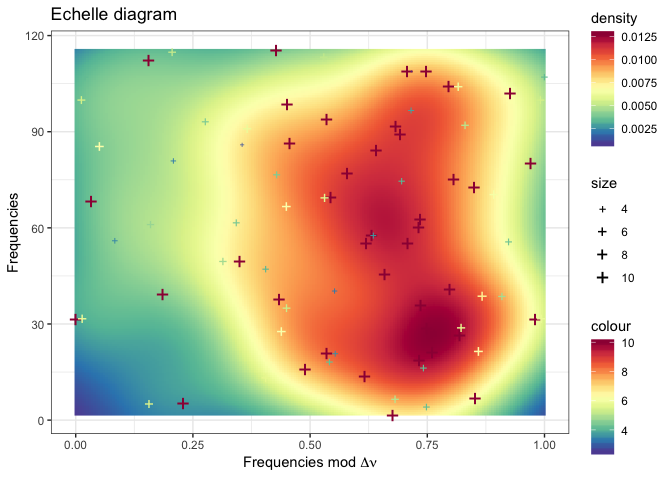
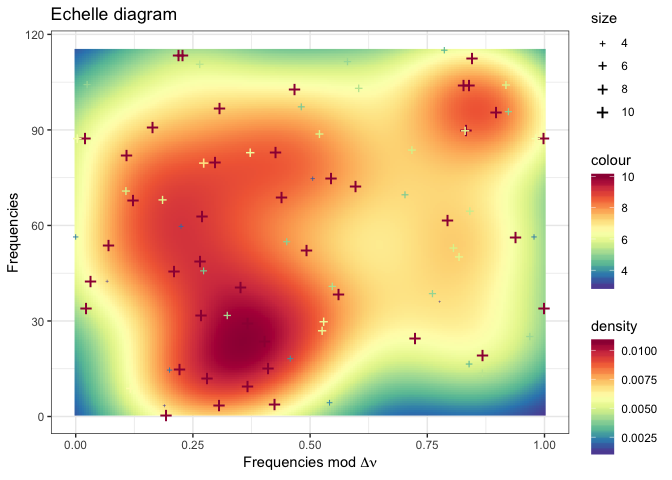
Experiment three with all random amplitudes

diff --git a/docs/ShynteticExpI.md b/docs/ShynteticExpI.md
@@ -9,7 +9,7 @@ Experiment I
 ``` r
 # Generate first pattern
 dt.spectrum <- data.frame(
-  "frequency" = seq(from=0, to=10, by=2) ,
+  "frequency" = seq(from=0, to=10, by=1) ,
   "amplitude" = 10
 )
 # Get max amplitude
@@ -26,16 +26,16 @@ Experiment execution
 
     ## ::: Debug information :::
     ## 
-    ## Number of frequences to be processed: 6
-    ## Number of frequences after drop the g regimen: 5
-    ## Frequencies: 23.1481, 46.2963, 69.4444, 92.5926, 115.741, 
-    ## Range: 5, 
-    ##  Iteration over range: 5
-    ##    Frequencies selected: 23.1481, 46.2963, 69.4444, 92.5926, 115.741, 
-    ##    Amplitudes selected: 10, 10, 10, 10, 10, 
-    ##     Dnu: 23.1463
-    ##     Dnu Peak: 23.1463
-    ##     Dnu Guess: 7.71605
+    ## Number of frequences to be processed: 11
+    ## Number of frequences after drop the g regimen: 10
+    ## Frequencies: 11.5741, 23.1481, 34.7222, 46.2963, 57.8704, 69.4444, 81.0185, 92.5926, 104.167, 115.741, 
+    ## Range: 10, 
+    ##  Iteration over range: 10
+    ##    Frequencies selected: 11.5741, 23.1481, 34.7222, 46.2963, 57.8704, 69.4444, 81.0185, 92.5926, 104.167, 115.741, 
+    ##    Amplitudes selected: 10, 10, 10, 10, 10, 10, 10, 10, 10, 10, 
+    ##     Dnu: 11.5732
+    ##     Dnu Peak: 11.5732
+    ##     Dnu Guess: 3.85802
     ##     Cross correlation calculated:
 
 ![](ShynteticExpI_files/figure-markdown_github/ftPower-1.png)
@@ -48,12 +48,12 @@ Experiment II
 ``` r
 # Generate first pattern
 dt.spectrum <- data.frame(
-  "frequency" = seq(from=0, to=10, by=0.25) ,
+  "frequency" = seq(from=0, to=10, by=1) ,
   "amplitude" = 10
 )
 # Generate second pattern as the biased first
 dt.spectrum.bias <- data.frame(dt.spectrum)
-dt.spectrum.bias$frequency <- dt.spectrum.bias$frequency + 0.15
+dt.spectrum.bias$frequency <- dt.spectrum.bias$frequency + 0.25
 dt.spectrum.bias$amplitude <- 5
   
 #All together
@@ -72,23 +72,17 @@ Experiment execution
 
     ## ::: Debug information :::
     ## 
-    ## Number of frequences to be processed: 82
-    ## Number of frequences after drop the g regimen: 81
-    ## Frequencies: 2.89352, 5.78704, 8.68056, 11.5741, 14.4676, 17.3611, 20.2546, 23.1481, 26.0417, 28.9352, 31.8287, 34.7222, 37.6157, 40.5093, 43.4028, 46.2963, 49.1898, 52.0833, 54.9769, 57.8704, 
-    ## Range: 30, 60, 81, 
-    ##  Iteration over range: 30
-    ##    Frequencies selected: 2.89352, 5.78704, 8.68056, 11.5741, 14.4676, 17.3611, 20.2546, 23.1481, 26.0417, 28.9352, 
+    ## Number of frequences to be processed: 22
+    ## Number of frequences after drop the g regimen: 21
+    ## Frequencies: 11.5741, 23.1481, 34.7222, 46.2963, 57.8704, 69.4444, 81.0185, 92.5926, 104.167, 115.741, 2.89352, 14.4676, 26.0417, 37.6157, 49.1898, 60.7639, 72.338, 83.912, 95.4861, 107.06, 
+    ## Range: 21, 
+    ##  Iteration over range: 21
+    ##    Frequencies selected: 11.5741, 23.1481, 34.7222, 46.2963, 57.8704, 69.4444, 81.0185, 92.5926, 104.167, 115.741, 
     ##    Amplitudes selected: 10, 10, 10, 10, 10, 10, 10, 10, 10, 10, 
     ##     Dnu: 2.8909
     ##     Dnu Peak: 2.8909
     ##     Dnu Guess: 0.964506
     ##     Cross correlation calculated:
-    ##  Iteration over range: 60
-    ##    Frequencies selected: 2.89352, 5.78704, 8.68056, 11.5741, 14.4676, 17.3611, 20.2546, 23.1481, 26.0417, 28.9352, 
-    ##    Amplitudes selected: 10, 10, 10, 10, 10, 10, 10, 10, 10, 10, 
-    ##  Iteration over range: 81
-    ##    Frequencies selected: 2.89352, 5.78704, 8.68056, 11.5741, 14.4676, 17.3611, 20.2546, 23.1481, 26.0417, 28.9352, 
-    ##    Amplitudes selected: 10, 10, 10, 10, 10, 10, 10, 10, 10, 10,
 
 ![](ShynteticExpI_files/figure-markdown_github/dosftPower-1.png)
 
@@ -101,8 +95,9 @@ Experiment III
 # Generate first pattern
 dt.spectrum <- data.frame(
   "frequency" = seq(from=0, to=10, by=0.25) ,
-  "amplitude" = 10
+  "amplitude" = 10 
 )
+dt.spectrum$amplitude <- dt.spectrum$amplitude + rnorm(nrow(dt.spectrum),0,1.0)
 # Generate second pattern as the biased first
 dt.spectrum.bias <- data.frame(dt.spectrum)
 dt.spectrum.bias$frequency <- dt.spectrum.bias$frequency + 0.15
@@ -126,21 +121,21 @@ Experiment execution
     ## 
     ## Number of frequences to be processed: 82
     ## Number of frequences after drop the g regimen: 81
-    ## Frequencies: 2.89352, 5.78704, 8.68056, 11.5741, 14.4676, 17.3611, 20.2546, 23.1481, 26.0417, 28.9352, 31.8287, 34.7222, 37.6157, 40.5093, 43.4028, 46.2963, 49.1898, 52.0833, 54.9769, 57.8704, 
+    ## Frequencies: 60.7639, 14.4676, 46.2963, 109.954, 86.8056, 43.4028, 104.167, 66.5509, 72.338, 8.68056, 89.6991, 63.6574, 107.06, 98.3796, 69.4444, 26.0417, 17.3611, 34.7222, 49.1898, 112.847, 
     ## Range: 30, 60, 81, 
     ##  Iteration over range: 30
-    ##    Frequencies selected: 2.89352, 5.78704, 8.68056, 11.5741, 14.4676, 17.3611, 20.2546, 23.1481, 26.0417, 28.9352, 
-    ##    Amplitudes selected: 10, 10, 10, 10, 10, 10, 10, 10, 10, 10, 
+    ##    Frequencies selected: 60.7639, 14.4676, 46.2963, 109.954, 86.8056, 43.4028, 104.167, 66.5509, 72.338, 8.68056, 
+    ##    Amplitudes selected: 11.6237, 11.5179, 11.3128, 11.2562, 11.2159, 11.0321, 10.6311, 10.6266, 10.599, 10.5851, 
     ##     Dnu: 2.8909
     ##     Dnu Peak: 2.8909
-    ##     Dnu Guess: 0.964506
+    ##     Dnu Guess: 1.92901
     ##     Cross correlation calculated:
     ##  Iteration over range: 60
-    ##    Frequencies selected: 2.89352, 5.78704, 8.68056, 11.5741, 14.4676, 17.3611, 20.2546, 23.1481, 26.0417, 28.9352, 
-    ##    Amplitudes selected: 10, 10, 10, 10, 10, 10, 10, 10, 10, 10, 
+    ##    Frequencies selected: 60.7639, 14.4676, 46.2963, 109.954, 86.8056, 43.4028, 104.167, 66.5509, 72.338, 8.68056, 
+    ##    Amplitudes selected: 11.6237, 11.5179, 11.3128, 11.2562, 11.2159, 11.0321, 10.6311, 10.6266, 10.599, 10.5851, 
     ##  Iteration over range: 81
-    ##    Frequencies selected: 2.89352, 5.78704, 8.68056, 11.5741, 14.4676, 17.3611, 20.2546, 23.1481, 26.0417, 28.9352, 
-    ##    Amplitudes selected: 10, 10, 10, 10, 10, 10, 10, 10, 10, 10,
+    ##    Frequencies selected: 60.7639, 14.4676, 46.2963, 109.954, 86.8056, 43.4028, 104.167, 66.5509, 72.338, 8.68056, 
+    ##    Amplitudes selected: 11.6237, 11.5179, 11.3128, 11.2562, 11.2159, 11.0321, 10.6311, 10.6266, 10.599, 10.5851,
 
 ![](ShynteticExpI_files/figure-markdown_github/tresftPower-1.png)
 
@@ -153,7 +148,7 @@ Experiment IV
 # Generate first pattern
 dt.spectrum <- data.frame(
   "frequency" = seq(from=0, to=10, by=0.25) + rnorm(nrow(dt.spectrum.bias),0,0.1) ,
-  "amplitude" = 10
+  "amplitude" = 10 
 )
 # Generate second pattern as the biased first
 dt.spectrum.bias <- data.frame(dt.spectrum)
@@ -177,21 +172,21 @@ Experiment execution
     ## ::: Debug information :::
     ## 
     ## Number of frequences to be processed: 82
-    ## Number of frequences after drop the g regimen: 80
-    ## Frequencies: 1.70135, 5.46207, 7.01212, 13.7322, 15.8514, 18.8912, 20.836, 21.3963, 26.4131, 28.6725, 31.6831, 35.9488, 37.632, 39.4512, 40.9728, 45.4978, 49.6017, 55.1424, 55.3641, 57.6071, 
-    ## Range: 30, 60, 80, 
+    ## Number of frequences after drop the g regimen: 81
+    ## Frequencies: 0.576375, 3.72331, 4.06342, 9.54308, 12.1136, 14.7651, 15.312, 19.4521, 23.7544, 24.6813, 29.2946, 31.8298, 33.9409, 38.3168, 40.5375, 42.4359, 45.7718, 48.7506, 52.2282, 53.8325, 
+    ## Range: 30, 60, 81, 
     ##  Iteration over range: 30
-    ##    Frequencies selected: 1.70135, 5.46207, 7.01212, 13.7322, 15.8514, 18.8912, 20.836, 21.3963, 26.4131, 28.6725, 
+    ##    Frequencies selected: 0.576375, 3.72331, 4.06342, 9.54308, 12.1136, 14.7651, 15.312, 19.4521, 23.7544, 24.6813, 
     ##    Amplitudes selected: 10, 10, 10, 10, 10, 10, 10, 10, 10, 10, 
-    ##     Dnu: 2.4355
-    ##     Dnu Peak: 2.4355
-    ##     Dnu Guess: 0.567116
+    ##     Dnu: 2.8216
+    ##     Dnu Peak: 2.8216
+    ##     Dnu Guess: 0.192125
     ##     Cross correlation calculated:
     ##  Iteration over range: 60
-    ##    Frequencies selected: 1.70135, 5.46207, 7.01212, 13.7322, 15.8514, 18.8912, 20.836, 21.3963, 26.4131, 28.6725, 
+    ##    Frequencies selected: 0.576375, 3.72331, 4.06342, 9.54308, 12.1136, 14.7651, 15.312, 19.4521, 23.7544, 24.6813, 
     ##    Amplitudes selected: 10, 10, 10, 10, 10, 10, 10, 10, 10, 10, 
-    ##  Iteration over range: 80
-    ##    Frequencies selected: 1.70135, 5.46207, 7.01212, 13.7322, 15.8514, 18.8912, 20.836, 21.3963, 26.4131, 28.6725, 
+    ##  Iteration over range: 81
+    ##    Frequencies selected: 0.576375, 3.72331, 4.06342, 9.54308, 12.1136, 14.7651, 15.312, 19.4521, 23.7544, 24.6813, 
     ##    Amplitudes selected: 10, 10, 10, 10, 10, 10, 10, 10, 10, 10,
 
 ![](ShynteticExpI_files/figure-markdown_github/cuatroftPower-1.png)
